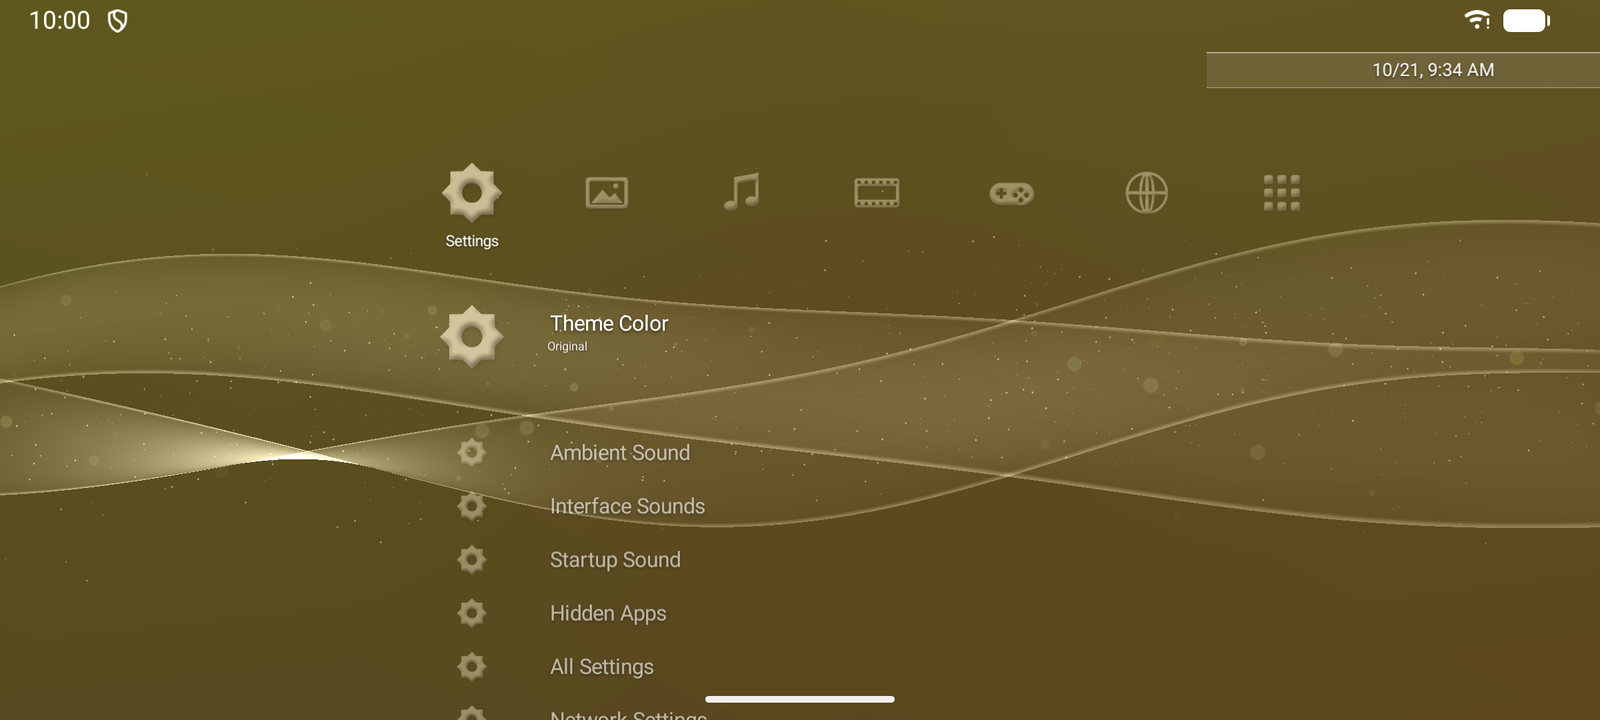
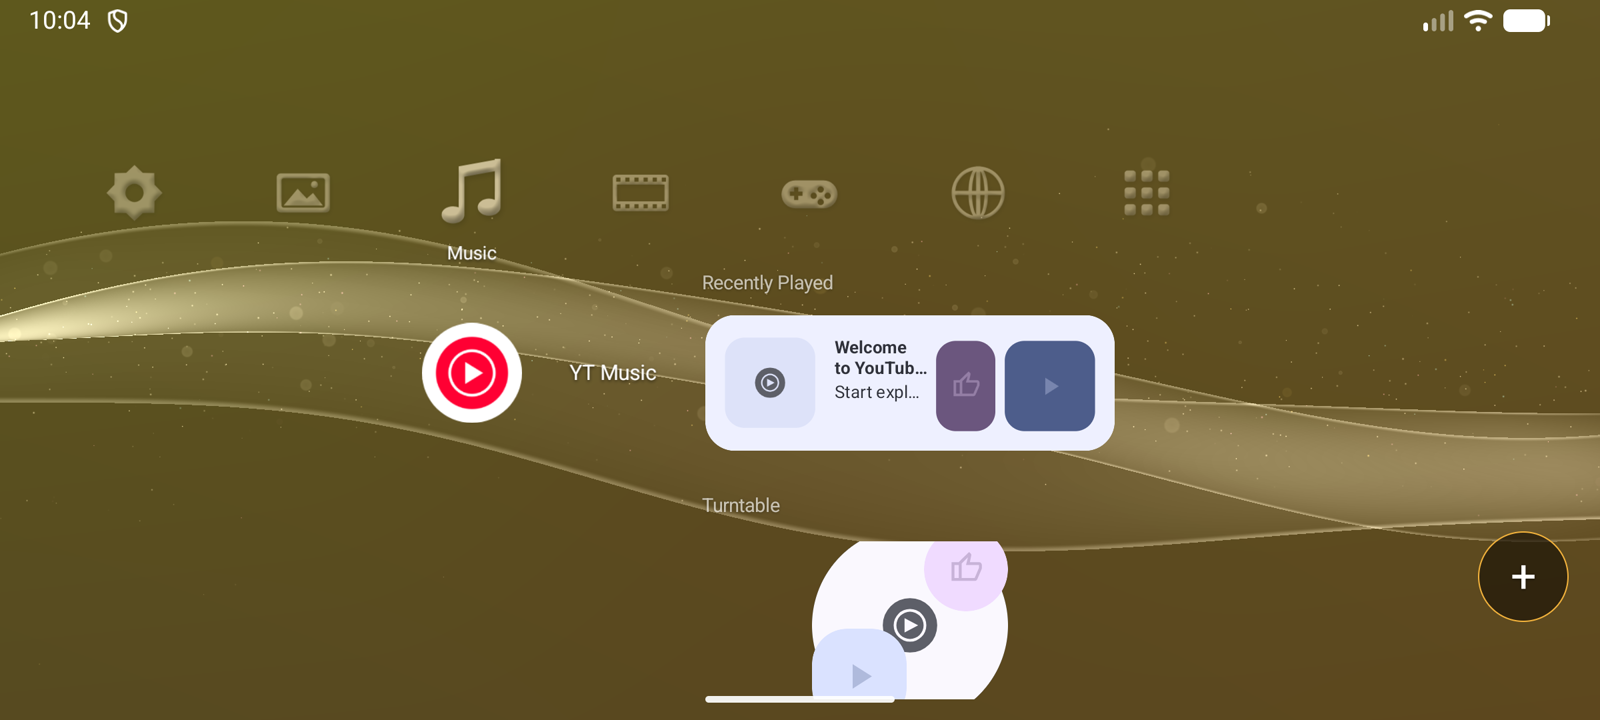
Fresh README screenshots; full-width labels while options are open
Screenshots retaken on the emulator at 0.4.2 (Large size, no date bar,
widgets in Music and Network). Beside a widget tray, labels were still cut
to the tray's edge while the options panel had moved the tray aside.

diff --git a/app/src/main/java/dev/xmbreborn/WidgetTrays.kt b/app/src/main/java/dev/xmbreborn/WidgetTrays.kt
@@ -123,7 +123,8 @@ class WidgetTrays(
         // Beside a tray, the list makes room: labels end before it (smaller), or with a wide
         // tray, rows show icons only.
         val focused = focusedColumn()
-        val hasTray = focused != null && ids(focused).isNotEmpty()
+        // While options are open the tray has stepped aside, so the list gets its full width back.
+        val hasTray = focused != null && ids(focused).isNotEmpty() && !xmb.renderer.optionsShowing
         val state = if (!hasTray) "none" else "${left(focused!!)}:${wide(focused)}"
         if (state != listState) {
             listState = state

diff --git a/README.md b/README.md
@@ -9,8 +9,8 @@ measured from the real interface, and everything in the app was written from tho
 **No Sony code, artwork, fonts or sounds are included.**
 
 <p align="center">
-  <img src="docs/screenshots/landscape.png" width="62%" alt="The bar in landscape: categories across, the Settings column down">
-  <img src="docs/screenshots/portrait.png" width="22%" alt="The bar in portrait">
+  <img src="docs/screenshots/landscape.png" width="62%" alt="The bar in landscape: categories across, the Music column with two widgets beside it">
+  <img src="docs/screenshots/portrait.png" width="22%" alt="The bar in portrait: the Network column with a search widget">
 </p>
 <p align="center">
   <img src="docs/screenshots/theme-color.png" width="62%" alt="The options panel choosing a theme colour, previewed live">
